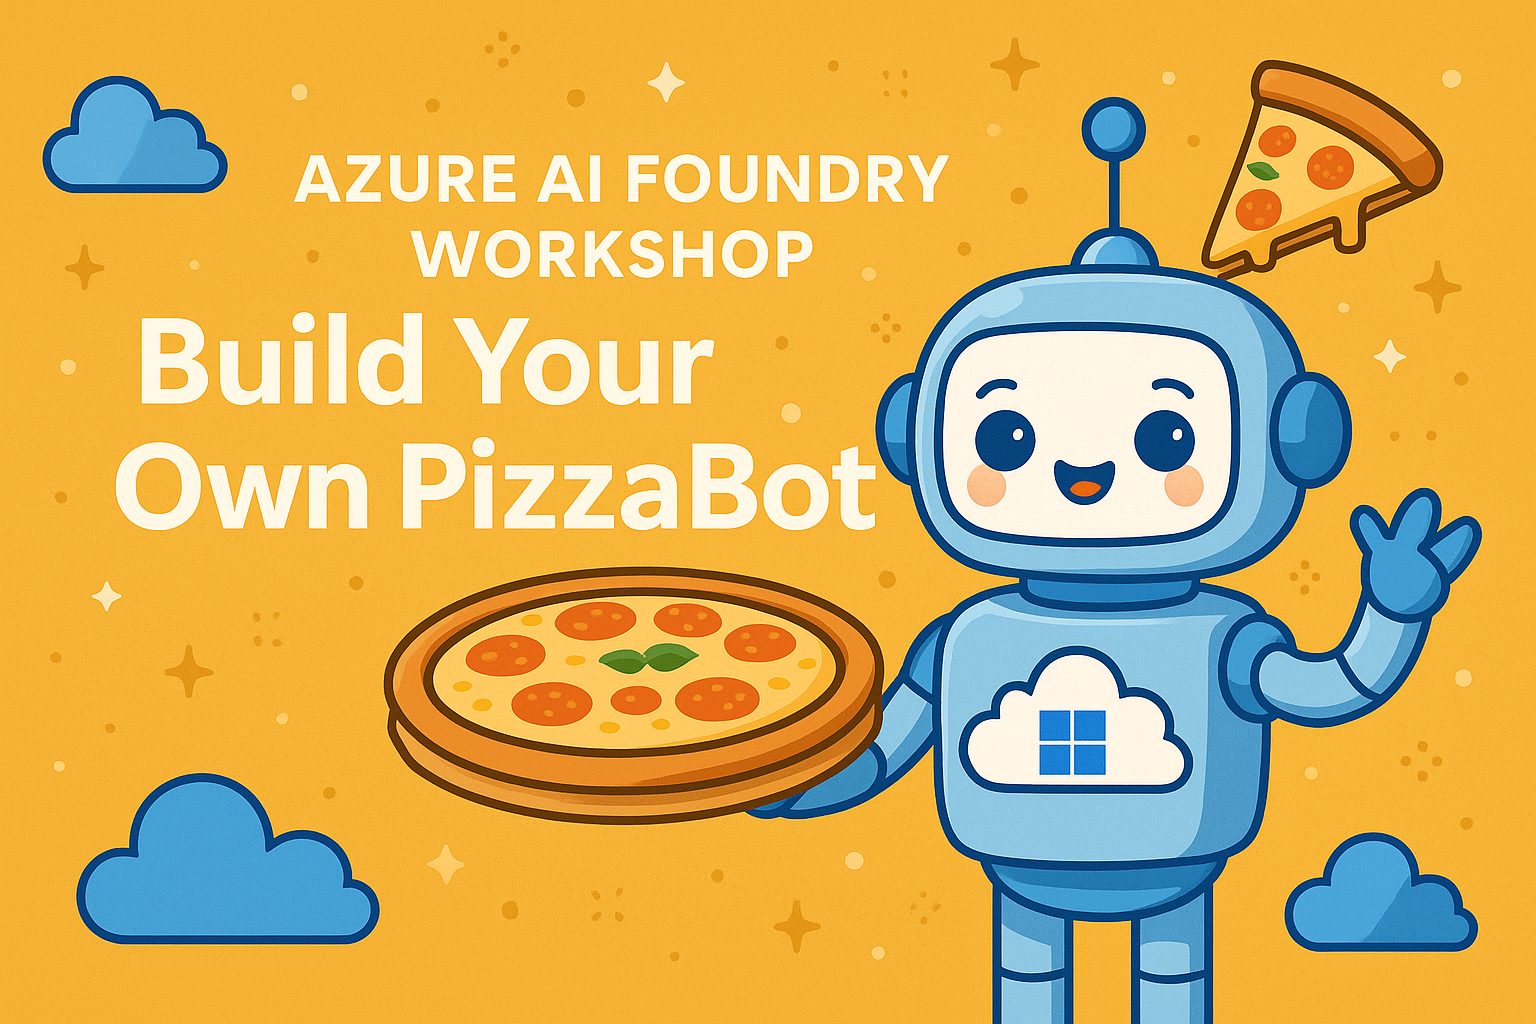
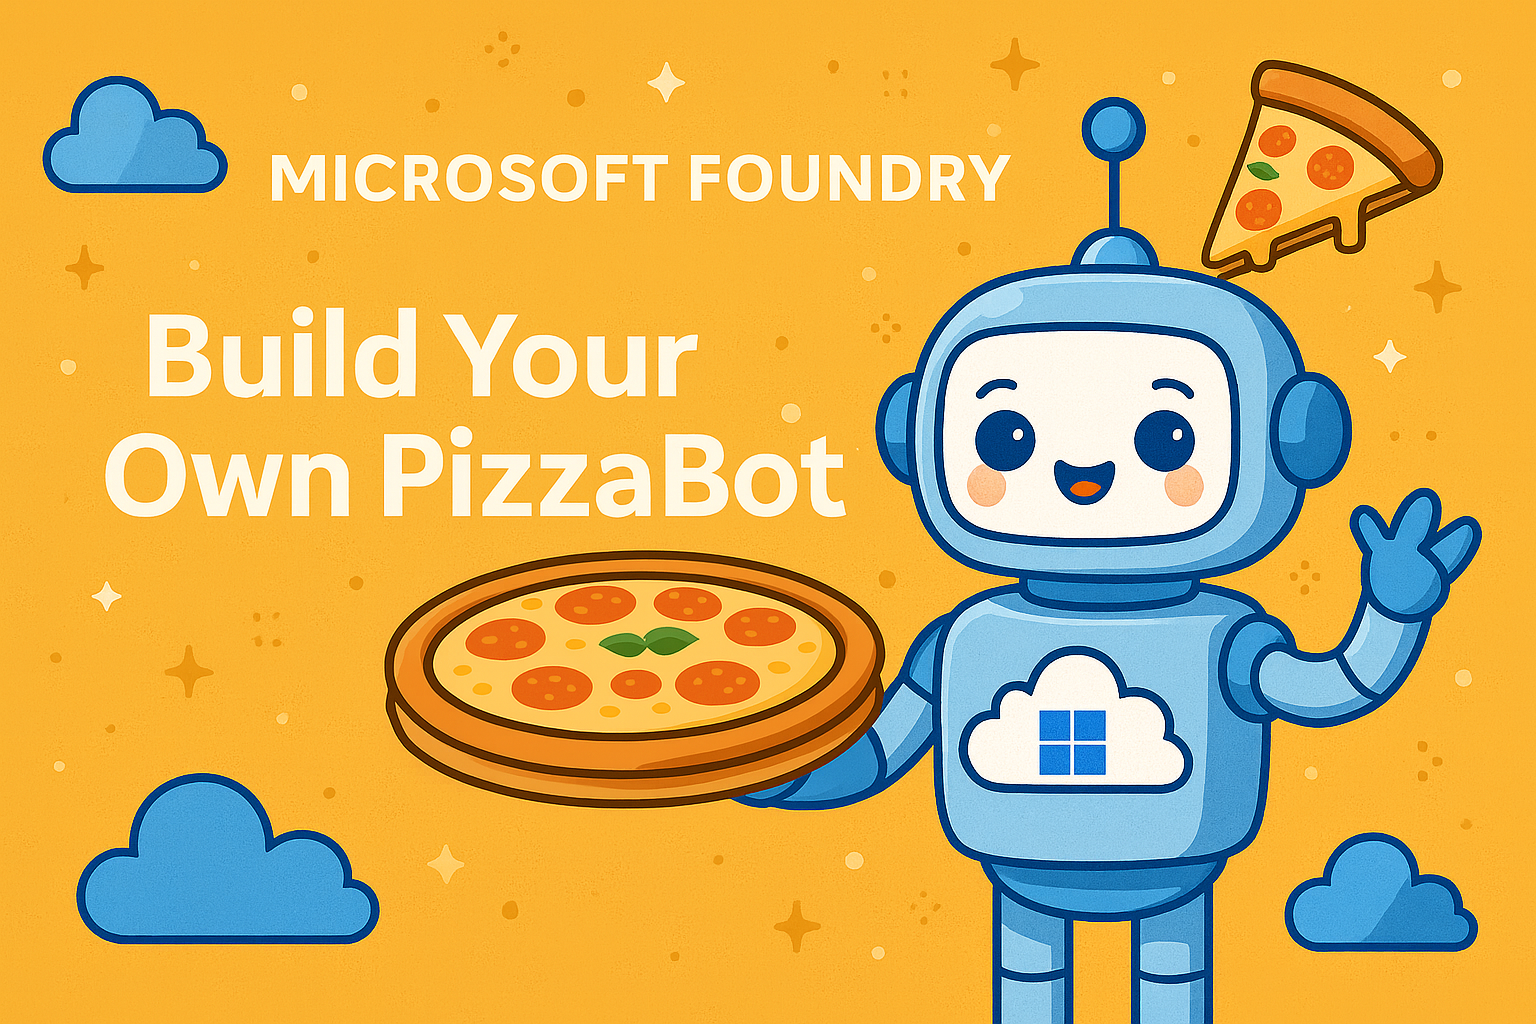
Update workshop title and service references in README

Changed region(s): [[0.0625, 0.125, 0.6875, 0.8125]]

diff --git a/readme.md b/readme.md
@@ -1,10 +1,10 @@
-# Azure AI Foundry Agent Workshop 🚀  
+# Microsoft Foundry Agent Workshop 🚀  
 
 ![](./docs/public/banner.png)
 
 ## Workshop Overview  
 
-In this hands-on session, you’ll learn how to build intelligent, domain-specific AI agents using **Azure AI Foundry Agent Service**.  
+In this hands-on session, you’ll learn how to build intelligent, domain-specific AI agents using **Microsoft Foundry Agent Service**.  
 We’ll go step by step—from creating a basic agent to extending it with custom tools, external data, and live integrations.  
 
 By the end of the workshop, you’ll have built your own **Contoso PizzaBot**, an AI assistant capable of:  
@@ -46,7 +46,7 @@ By the end of the workshop, you’ll have built your own **Contoso PizzaBot**, a
 ## Workshop Goal  
 
 By the end of this 2-hour session, you’ll know how to:  
-1. Create and configure an agent in Azure AI Foundry  
+1. Create and configure an agent in Microsoft Foundry  
 2. Guide its behavior with **system prompts**  
 3. Ground it in real data using **RAG**  
 4. Extend its functionality with **custom tools**  
